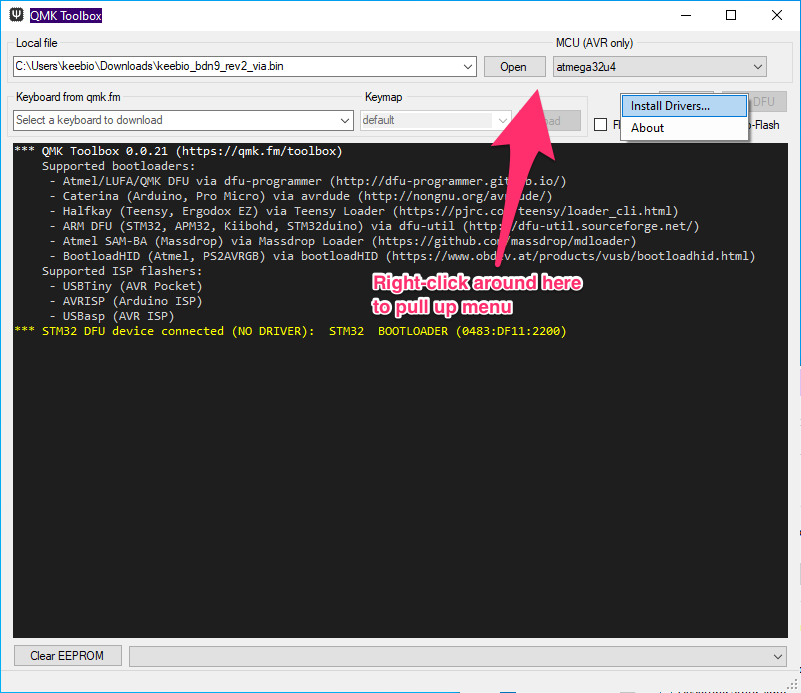
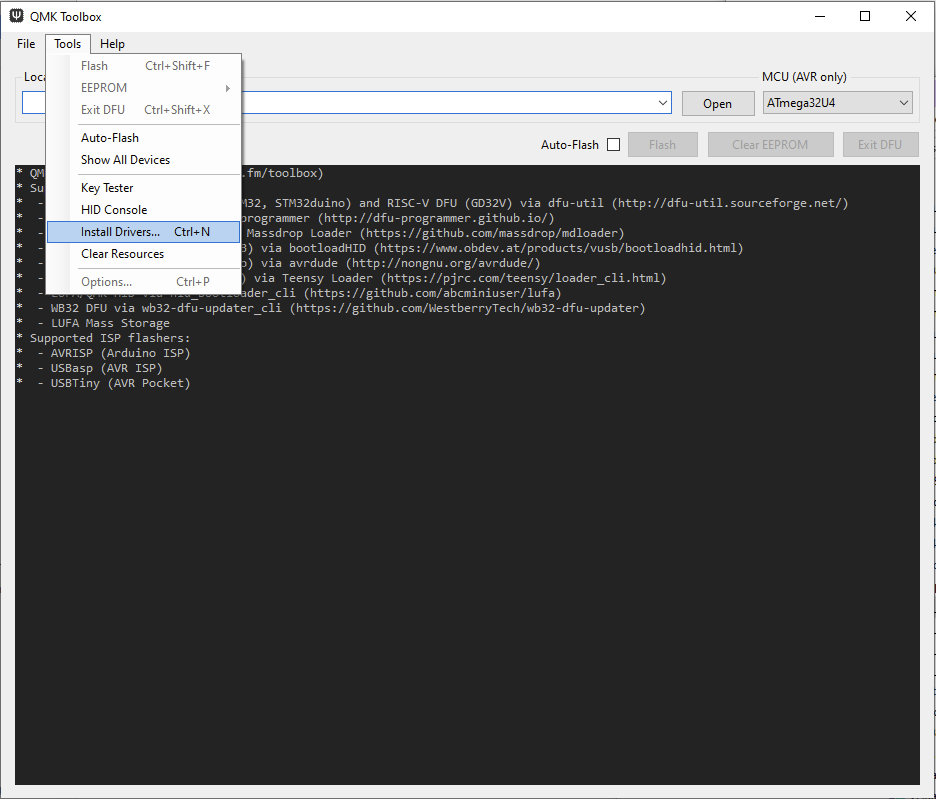
Update driver installation inside of QMK Toolbox

Changed region(s): [[0.0, 0.0, 1.0, 1.0]]

diff --git a/docs/flashing-firmware.md b/docs/flashing-firmware.md
@@ -79,7 +79,7 @@ This section only applies to Windows, skip this if you are on a Mac, as there ar
 
 If you open up QMK Toolbox, press the reset button on your ATmega32u4-based board, and see `(NO DRIVER)` on the line for `Atmel DFU device connected`, then you'll need to install the bootloader driver on Windows.
 
-To install the DFU Bootloader driver, right-click anywhere in the top part of the QMK Toolbox window as shown below and click on `Install Drivers...`. The ATmega32u4 DFU Bootloader driver along with other bootloader drivers will be installed.
+To install the DFU Bootloader driver, go to `Tools` on the menu bar and select `Install Drivers...`. The ATmega32u4 DFU Bootloader driver along with other bootloader drivers will be installed.
 
 ![](./assets/images/flashing/windows-install-drivers.png)
 
@@ -134,7 +134,7 @@ If you open up QMK Toolbox, press the reset button on your STM32-based board, an
 
 ![](./assets/images/flashing/windows-stm32-no-driver.png)
 
-To install the STM32 Bootloader driver, right-click anywhere in the top part of the QMK Toolbox window as shown below and click on `Install Drivers...`. The STM32 Bootloader driver along with other bootloader drivers will be installed.
+To install the STM32 Bootloader driver, go to `Tools` on the menu bar and select `Install Drivers...`. The STM32 Bootloader driver along with other bootloader drivers will be installed.
 
 ![](./assets/images/flashing/windows-install-drivers.png)
 
